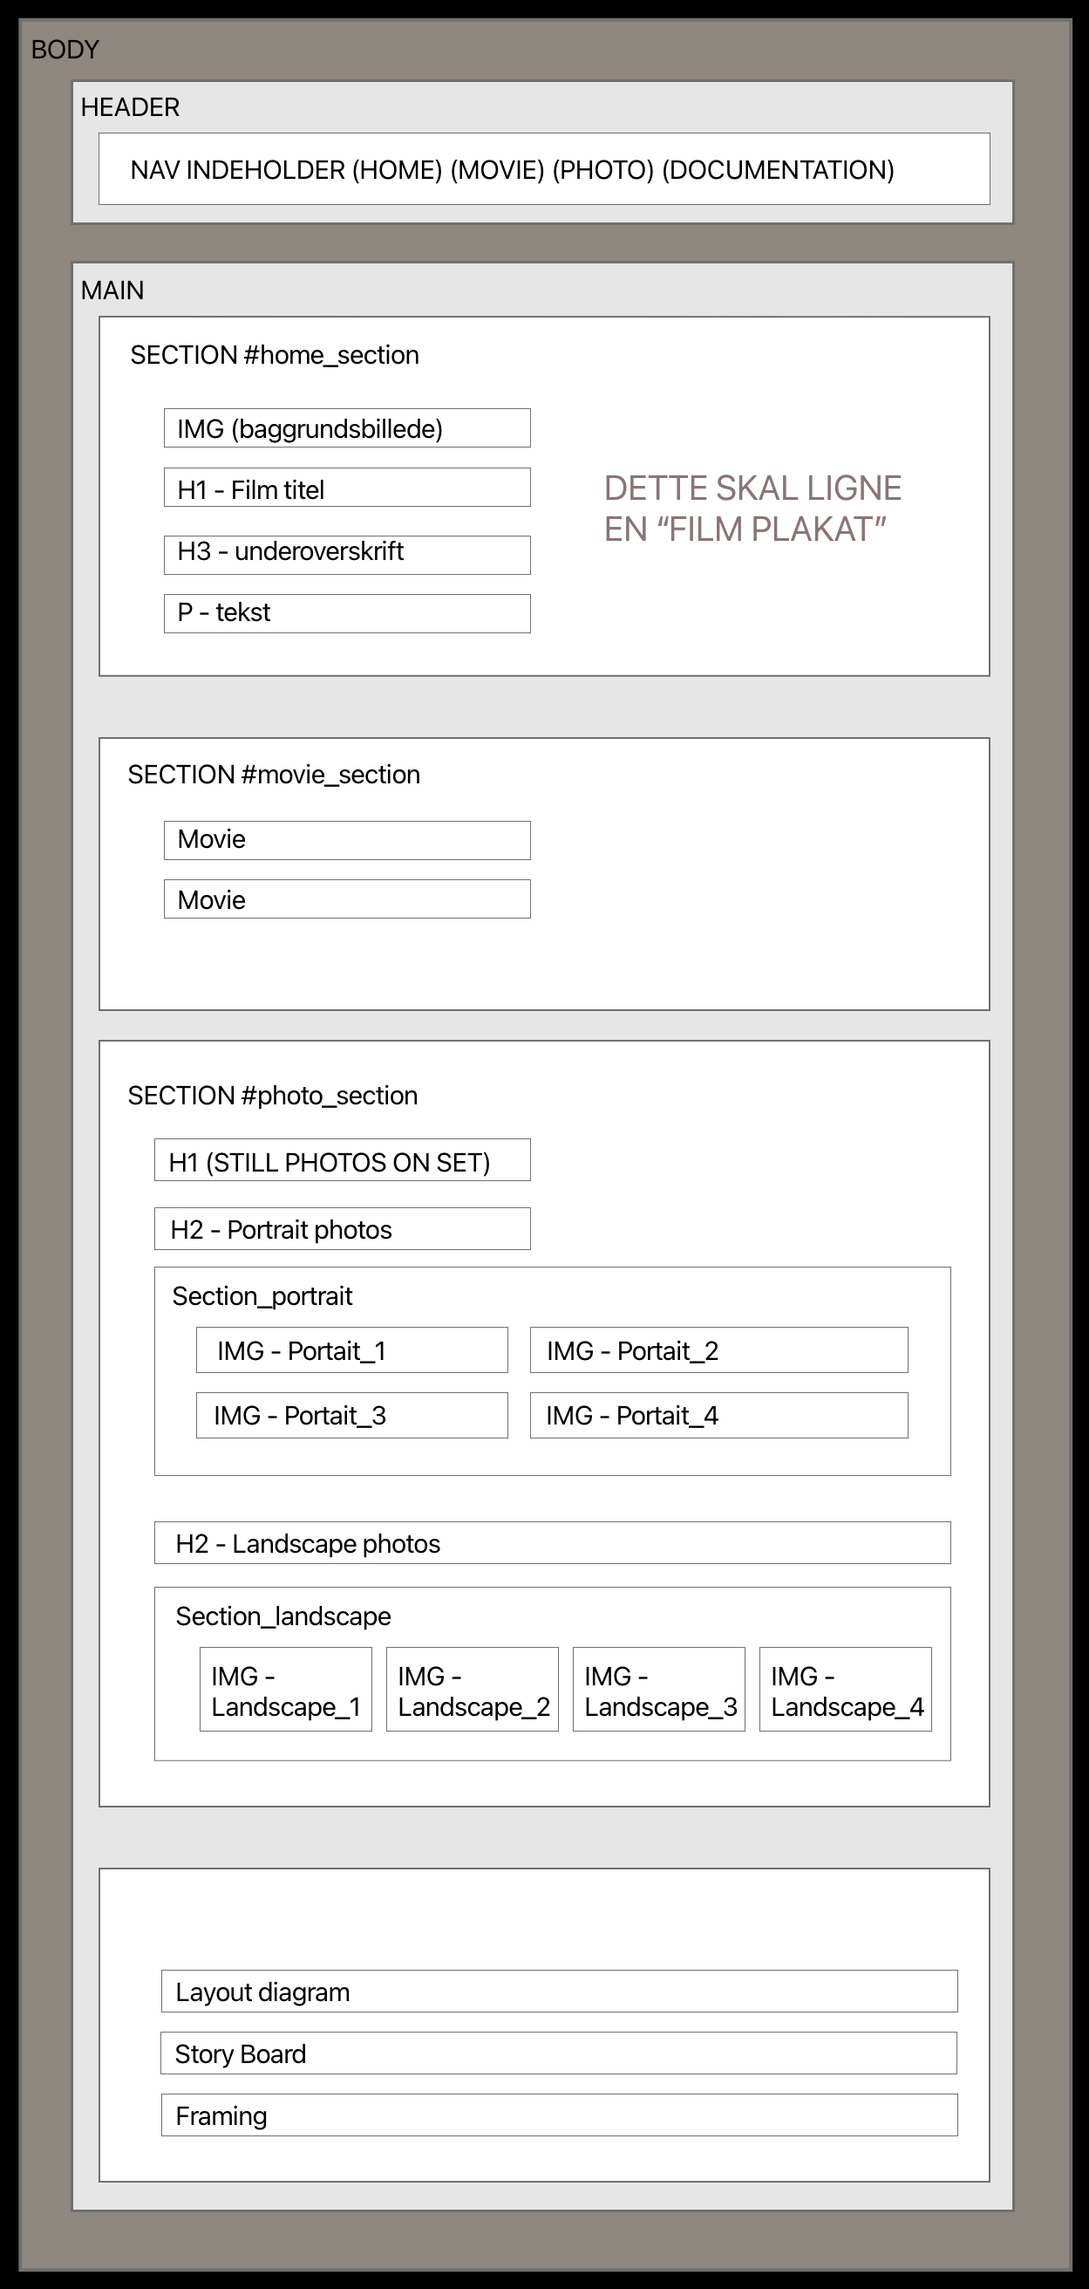
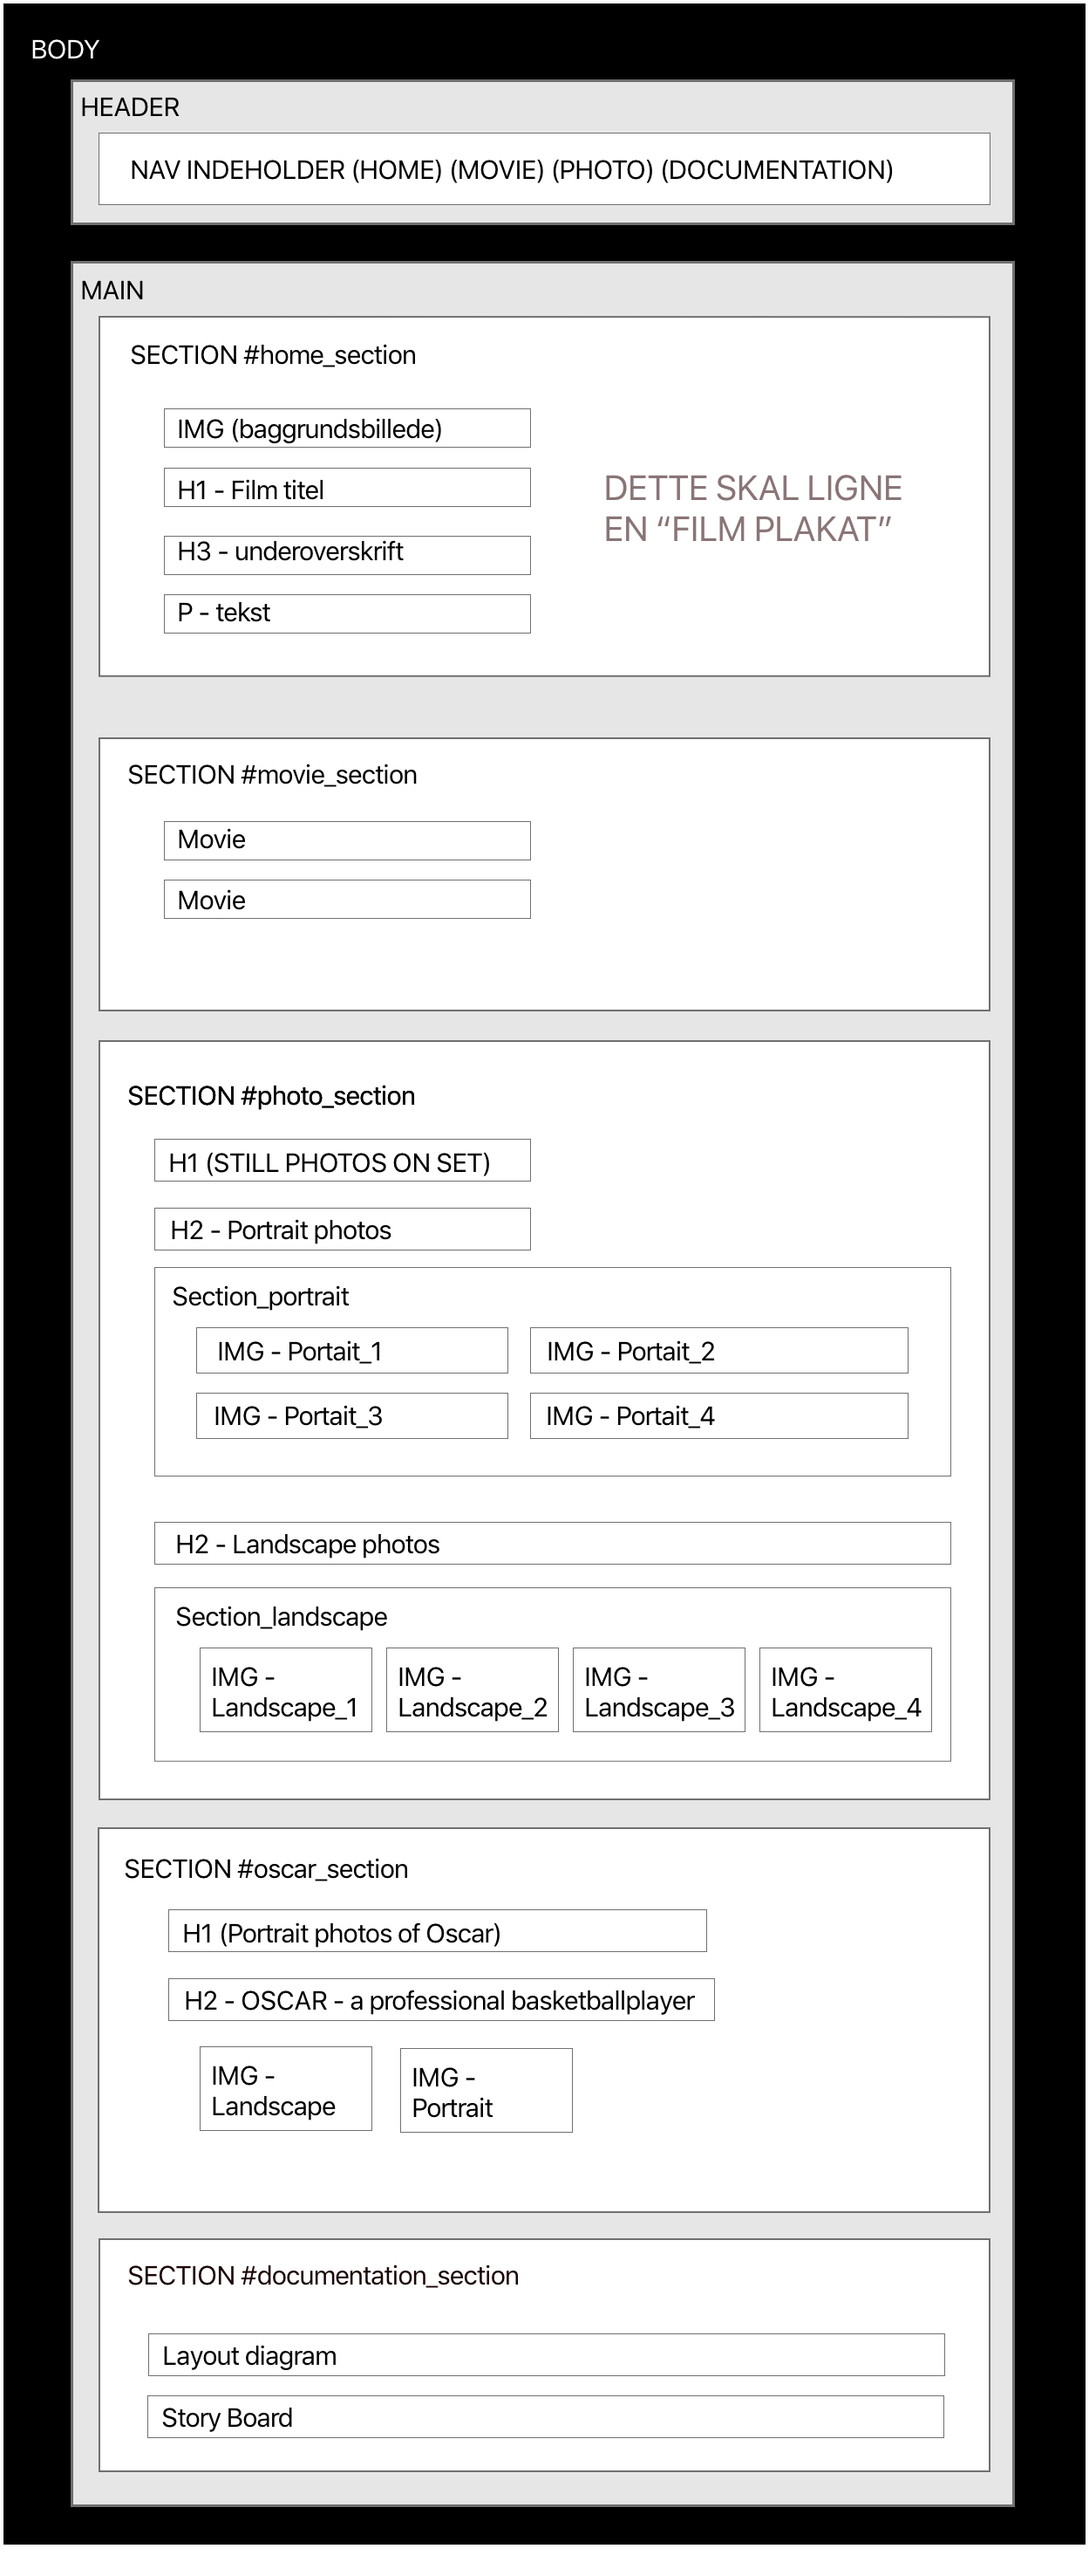
Working without movies

diff --git a/index.html b/index.html
@@ -20,7 +20,7 @@
     <header>
       <nav>
         <ul>
-          <li><a href="#home_section">Home Home</a></li>
+          <li><a href="#home_section">Home</a></li>
           <li><a href="#movie_section">Movie</a></li>
           <li><a href="#photo_section">Photo</a></li>
           <li><a href="#documentation_section">Documentation</a></li>
@@ -58,15 +58,15 @@
 
 
       
-      <section id="movie_section">
+      <!-- <section id="movie_section">
         <h1>MOVIE</h1>
         <br>
-        <div class="iframe_wrapper">
-        <iframe src="....."></iframe>
-        </div>
+       <div class="iframe-wrapper">
+  <iframe src="..." width="560" height="315"></iframe>
+</div>
 
-        <video controls src=" du skal gøre det gennem filezilla og find url og sæt ind"></video>
-      </section>
+        <video controls src="https://sophiacannon.dk/kea/oscar.mp4"></video>
+      </section> -->
 
 
 
@@ -79,7 +79,7 @@
         <article>
 
           <div class="landscape">
-        <h3>Landscape photos</h3>
+        <h3>Photos taken in landscape format</h3>
 
   
       <figure class="gallery_landscape">
@@ -92,7 +92,7 @@
         
         <div class="portait">
           <br>
-        <h3>Portrait photos</h3>
+        <h3>Photos taken in portrait format</h3>
     
 
         <figure class="gallery_portrait">
@@ -136,7 +136,7 @@
         <h1>DOCUMENTATION</h1>
 
         <h3>Layout Diagram</h3>
-        <img src="billeder/Layout diagram.jpg" alt="Layout diagram" />
+        <img src="billeder/Layout diagram.jpg" alt="Layout diagram" id="layout"/>
 
         <h3>Storyboard</h3>
         <img src="" alt="Storyboard" />

diff --git a/style.css b/style.css
@@ -15,13 +15,19 @@ img {
   display: block;
 }
 
+
+#layout {
+  width: 30vw;
+  height: auto;
+}
+
 video {
   width: 100%;
   height: auto;
   display: block;
 }
 
-/* 
+
 .iframe.wrapper {
   position: relative;
   width 100%;
@@ -35,7 +41,8 @@ iframe {
   inset: 0;
   width: 100%;
   height: 100%;
-  aspect-ratio: 16/9; }DETTE VIRKER FØRST EFTER 1. JUNI*/
+}
+  /* aspect-ratio: 16/9; }DETTE VIRKER FØRST EFTER 1. JUNI */
 
 body {
   background-color: rgb(42, 39, 39);
@@ -132,22 +139,20 @@ h2 {
 #movie_section {
   margin-top: 2rem;
   background-color: rgb(17, 16, 16);
-  padding-left: 2rem;
-  padding-top: 1.5rem;
+  padding: 1.5rem;
 }
 
 #photo_section {
   margin-top: 2rem;
+  margin-buttom: 2rem;
   padding: 1.5rem;
-  color: black;
-  background-color: rgb(191, 184, 179);
+  background-color: rgb(19, 18, 18);
 }
 
 #oscar_section {
   margin-top: 2rem;
-  background-color: rgb(191, 184, 179);
+  background-color: rgb(19, 18, 18);
   padding: 1.5rem;
-  color: black;
 }
 
 .gallery_landscape {
@@ -168,20 +173,6 @@ h2 {
   gap: 0.5rem;
 }
 
-/* 
-#landscape {
-  display: grid;
-  grid-template-columns: 1fr;
-  grid-template-rows: auto auto);
-  gap: 1rem;
-}
-
-#portrait {
-  display: grid;
-  grid-template-columns: repeat(2, 1fr);
-  grid-template-rows: auto;
-  gap: 1rem;
-} */
 
 #documentation_section {
   margin-top: 2rem;
@@ -239,5 +230,9 @@ h2 {
   #home_section {
     grid-template-columns: 1fr 1fr 1fr 1fr 1fr 1fr 1fr;
     grid-template-rows: 1fr 1fr 1fr 1fr 1fr 1fr 0.1fr 0.5fr 1fr;
+  }
+
+  nav ul a {
+    font-size: 2rem;
   }
 }
